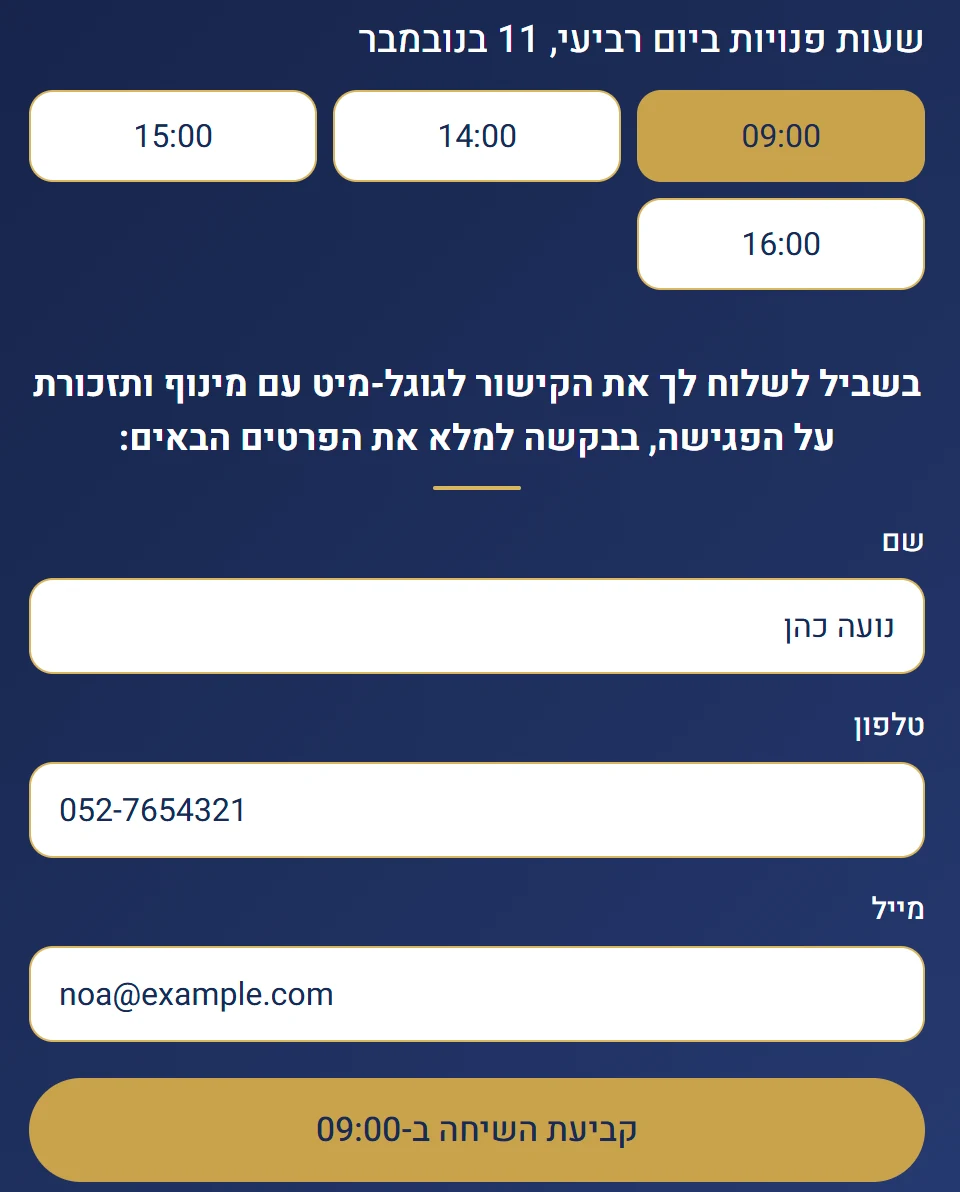
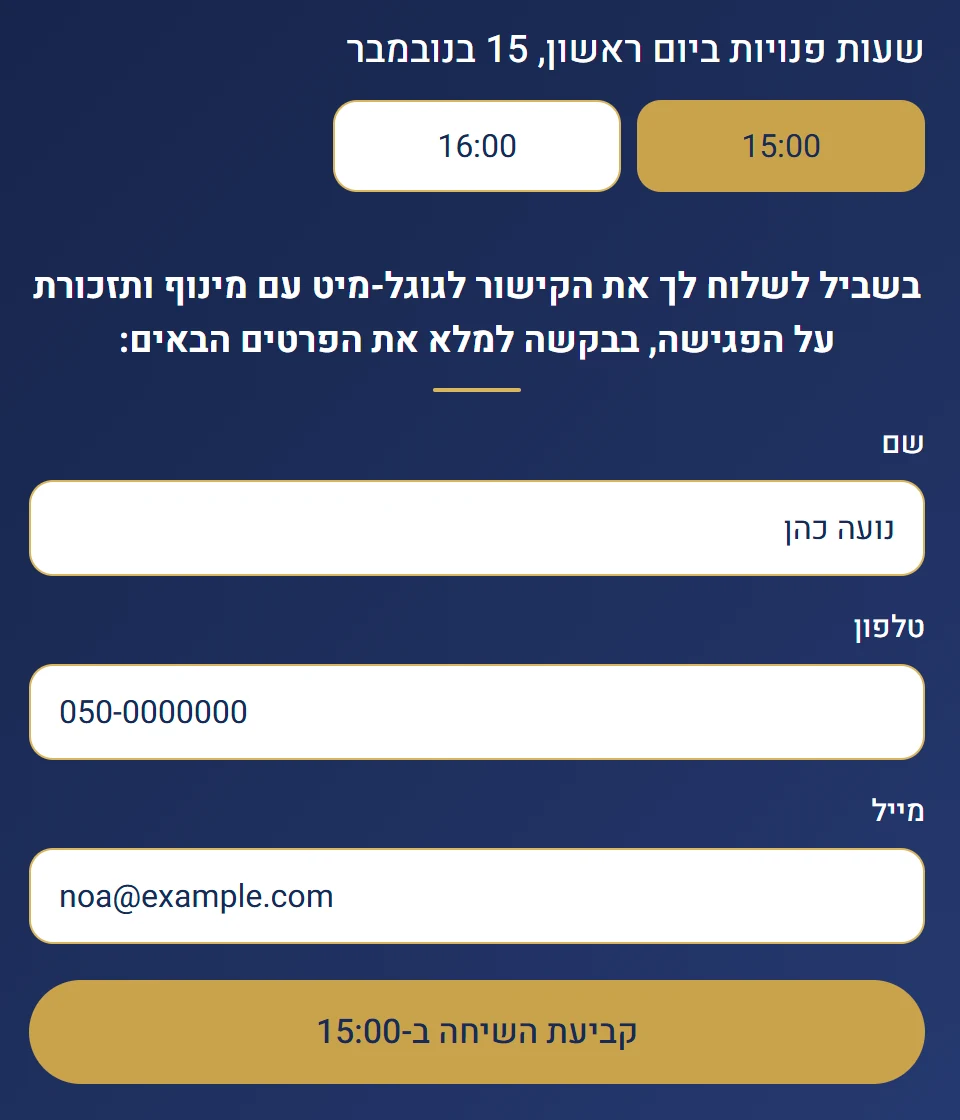
yoman: נוסח חדש לקביעה מיידית, טופס עם 050-0000000, וסקשן בלי כפל פגישות

diff --git a/yoman/index.html b/yoman/index.html
@@ -181,14 +181,25 @@
         <div>
           <span class="svc-ico" aria-hidden="true">✍</span>
           <h3 id="details">ממלאים פרטים, והפגישה נקבעת מיד</h3>
-          <p>הלקוח בוחר שעה, ממלא שם, טלפון ומייל, <b>ולוחץ על הכפתור. זהו, הפגישה כבר אצלכם ביומן גוגל.</b></p>
-          <p>ואם בדיוק באותו רגע מישהו אחר תפס את השעה הזו, העמוד אומר לו את זה ומראה לו את השעות המעודכנות. <span class="strong">ככה שני לקוחות אף פעם לא נקבעים על אותה שעה.</span></p>
+          <p>לאחר שהלקוח או הליד בחר יום ושעה - <b>זה מגיע ישירות ליומן גוגל שלכם,</b><br>כולל פרטיו - שם, מייל, טלפון.<br>ואם הפגישה היא אונליין - אז גם <b>קישור ישיר לזום או גוגל-מיט</b> (לפי ההגדרות שלכם מראש).</p>
         </div>
-        <figure class="shot shot-mid" style="max-width:430px"><img src="/assets/img/yoman/form.webp?v=1" width="960" height="1192" loading="lazy" alt="טופס הפרטים בעמוד הקביעה: שם, טלפון ומייל, וכפתור קביעת השיחה" /></figure>
+        <figure class="shot shot-mid" style="max-width:430px"><img src="/assets/img/yoman/form.webp?v=2" width="960" height="1120" loading="lazy" alt="טופס הפרטים בעמוד הקביעה: שם, טלפון ומייל, וכפתור קביעת השיחה" /></figure>
       </div>
     </section>
 
     <section class="sec bg-light">
+      <div class="wrap-wide feat">
+        <div>
+          <span class="svc-ico" aria-hidden="true">🔐</span>
+          <h3 id="no-double">האם 2 לקוחות יכולים להירשם בטעות לאותה שעה?</h3>
+          <p>ואם בדיוק באותו רגע שמישהו אחד מילא את הטופס, עוד מישהו מילא אותו במקביל?</p>
+          <p>אז מה שקורה הוא שברגע שמישהו ראשון תפס את השעה הזו - <b>המערכת חכמה,</b><br>והיא תרשום ללקוח השני שהמועד כבר נתפס, ואז תראה לו את השעות המעודכנות.</p>
+          <p><span class="strong">ככה שני לקוחות אף פעם לא נקבעים על אותה שעה.</span></p>
+        </div>
+      </div>
+    </section>
+
+    <section class="sec sec-band">
       <div class="wrap-wide feat">
         <div>
           <span class="svc-ico" aria-hidden="true">✅</span>
@@ -200,7 +211,7 @@
       </div>
     </section>
 
-    <section class="sec sec-band">
+    <section class="sec bg-light">
       <div class="wrap-wide feat">
         <div>
           <span class="svc-ico" aria-hidden="true">📧</span>
@@ -222,7 +233,7 @@
       </div>
     </section>
 
-    <section class="sec bg-light">
+    <section class="sec sec-band">
       <div class="wrap-wide feat">
         <div>
           <span class="svc-ico" aria-hidden="true">⚖</span>
@@ -519,6 +530,7 @@
     <a href="#who">למי זה מתאים</a>
     <a href="#booking">מה הלקוחות רואים</a>
     <a href="#details">קביעה מיידית</a>
+    <a href="#no-double">בלי כפל פגישות</a>
     <a href="#booked">אחרי הקביעה</a>
     <a href="#messages">אישור ותזכורת</a>
     <a href="#legal">מכוסים משפטית</a>
